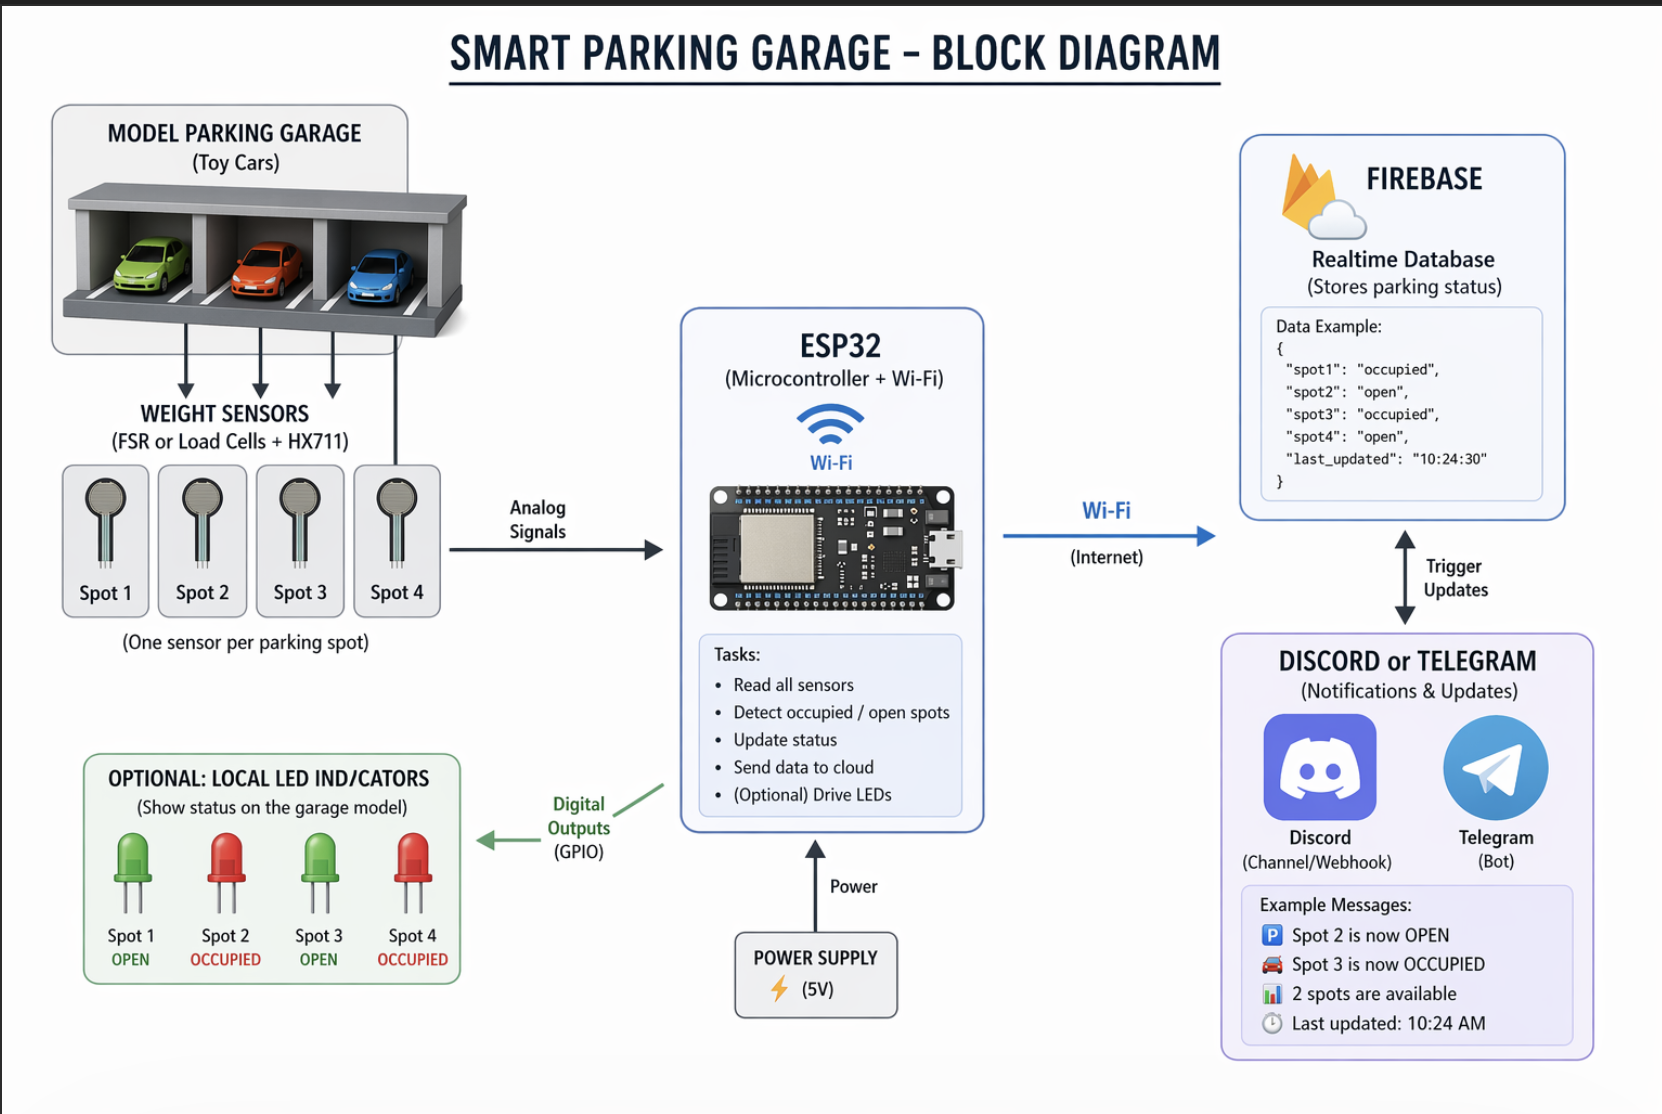
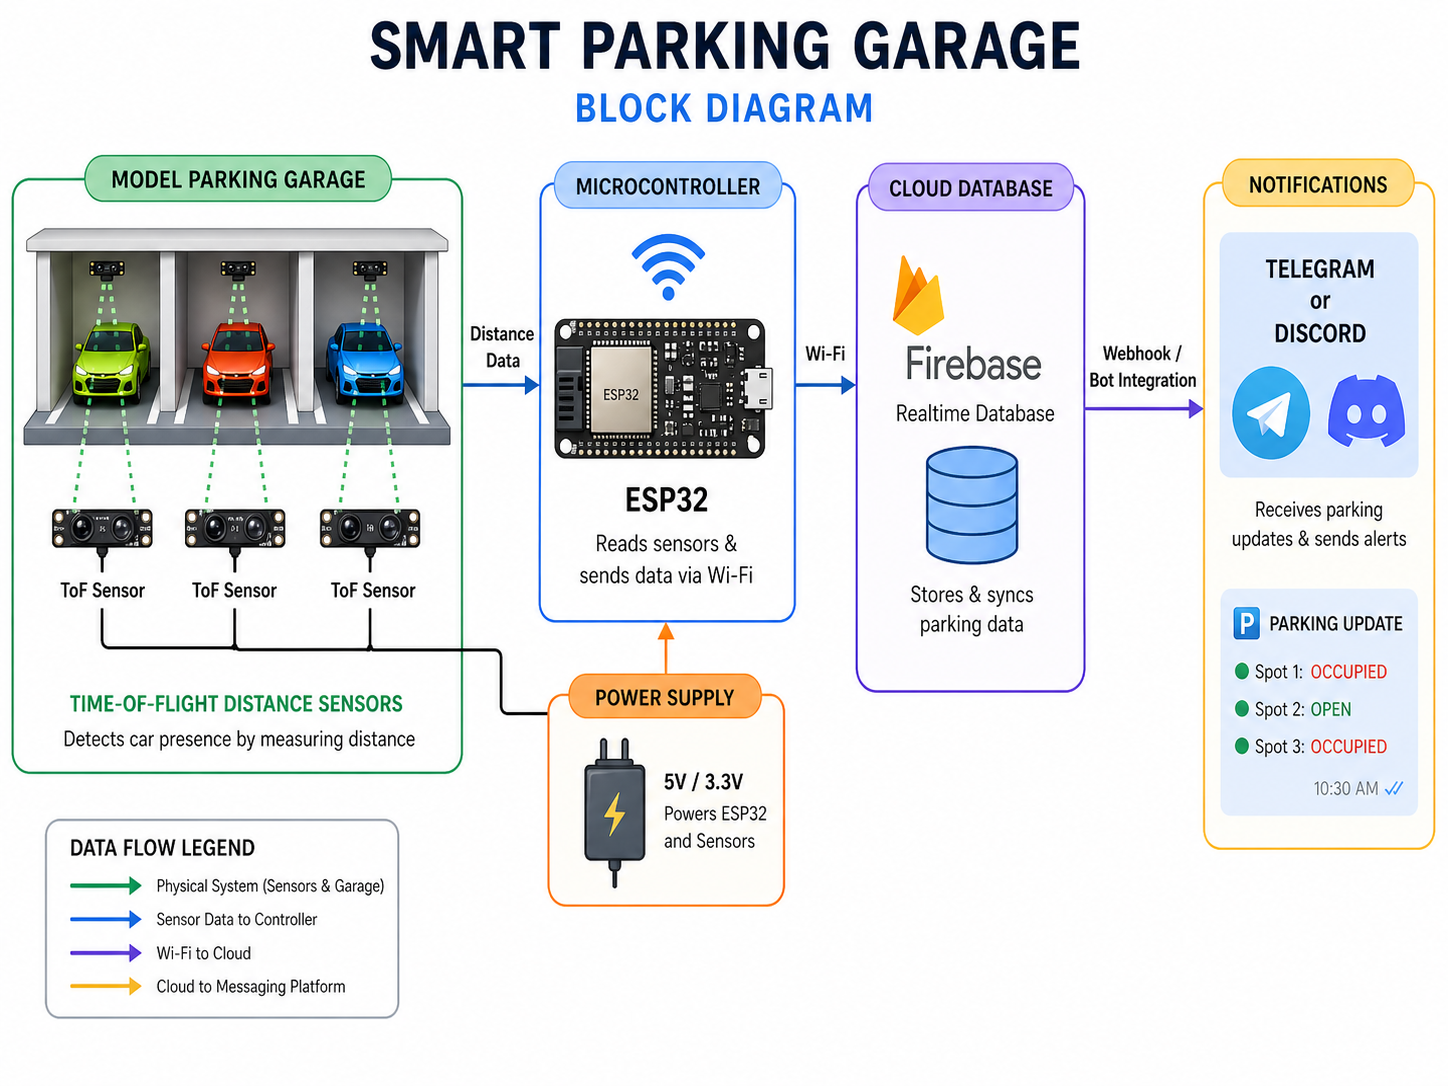
Pivot from weight sensors to Time of Flight Sensors

diff --git a/app/solution/page.js b/app/solution/page.js
@@ -5,7 +5,7 @@ export const metadata = {
 };
 
 const solutionActions = [
-  "Use weight sensors to detect if a car is in a parking spot.",
+  "Use a time of flight distance sensors to detect if a car is in a parking spot.",
   "Microcontroller/ESP32 will be used to communicate with our database and notify users via Discord or Telegram.",
   "Firebase will be our database to keep track of parking spots status.",
 ];
@@ -18,7 +18,7 @@ const technicalAspects = [
 
 const components = [
   "Microcontroller: ESP32",
-  "Weight Sensors: Pressure pads or load cells placed under parking spots to detect vehicle presence.",
+  "Distance Sensors: Using time of flight sensors vl53L1X to detect distance",
   "Communication interface: Wi-Fi, Bluetooth",
   "Software layer: dashboard, mobile view, or web interface that displays open-space availability.",
 ];
@@ -26,11 +26,11 @@ const components = [
 const milestones = [
   {
     date: "May 1, 2026",
-    item: "Parking garage model is fully constructed with Lego and 3D-printed parts.",
+    item: "Parking garage model is fully constructed and 3D-printed",
   },
   {
     date: "May 8, 2026",
-    item: "Weight sensor detects a car and sends occupancy data through the microcontroller.",
+    item: "Distance sensor detects a car and sends occupancy data through the microcontroller.",
   },
   {
     date: "May 20, 2026",
@@ -109,7 +109,7 @@ export default function SolutionPage() {
           </div>
           <p className="figure-note">
             Overall solution block diagram showing the model parking garage,
-            weight sensors, ESP32 microcontroller, Firebase database, and
+            distance sensors, ESP32 microcontroller, Firebase database, and
             Discord or Telegram notifications.
           </p>
         </section>
@@ -141,7 +141,7 @@ export default function SolutionPage() {
             />
           </div>
           <p className="figure-note">
-            Timeline of garage-model construction, weight-sensor detection with
+            Timeline of garage-model construction, distance sensor detection with
             microcontroller communication, and user notification of open spots.
           </p>
         </section>
